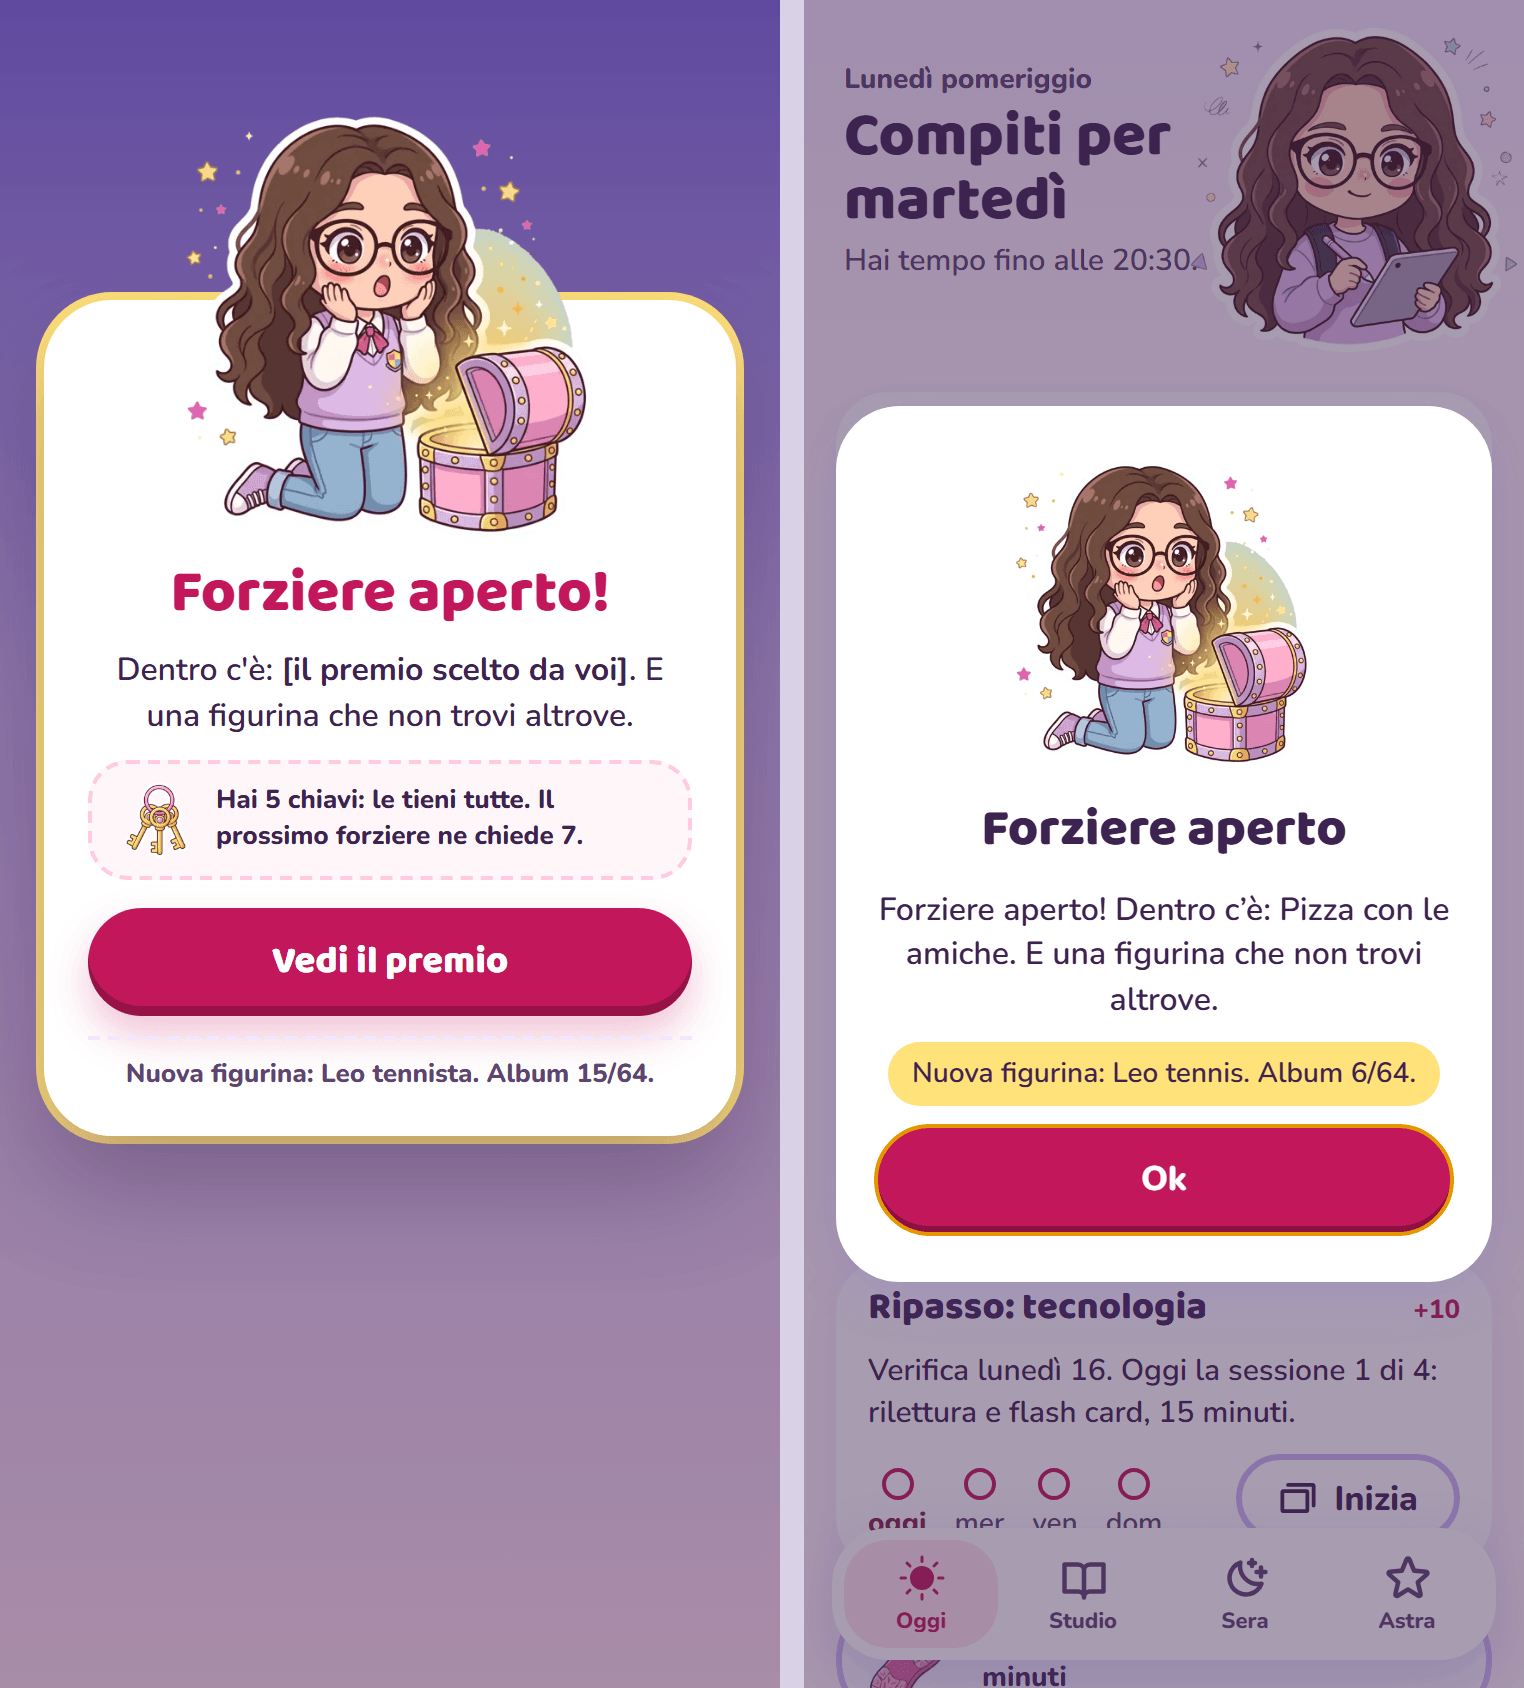
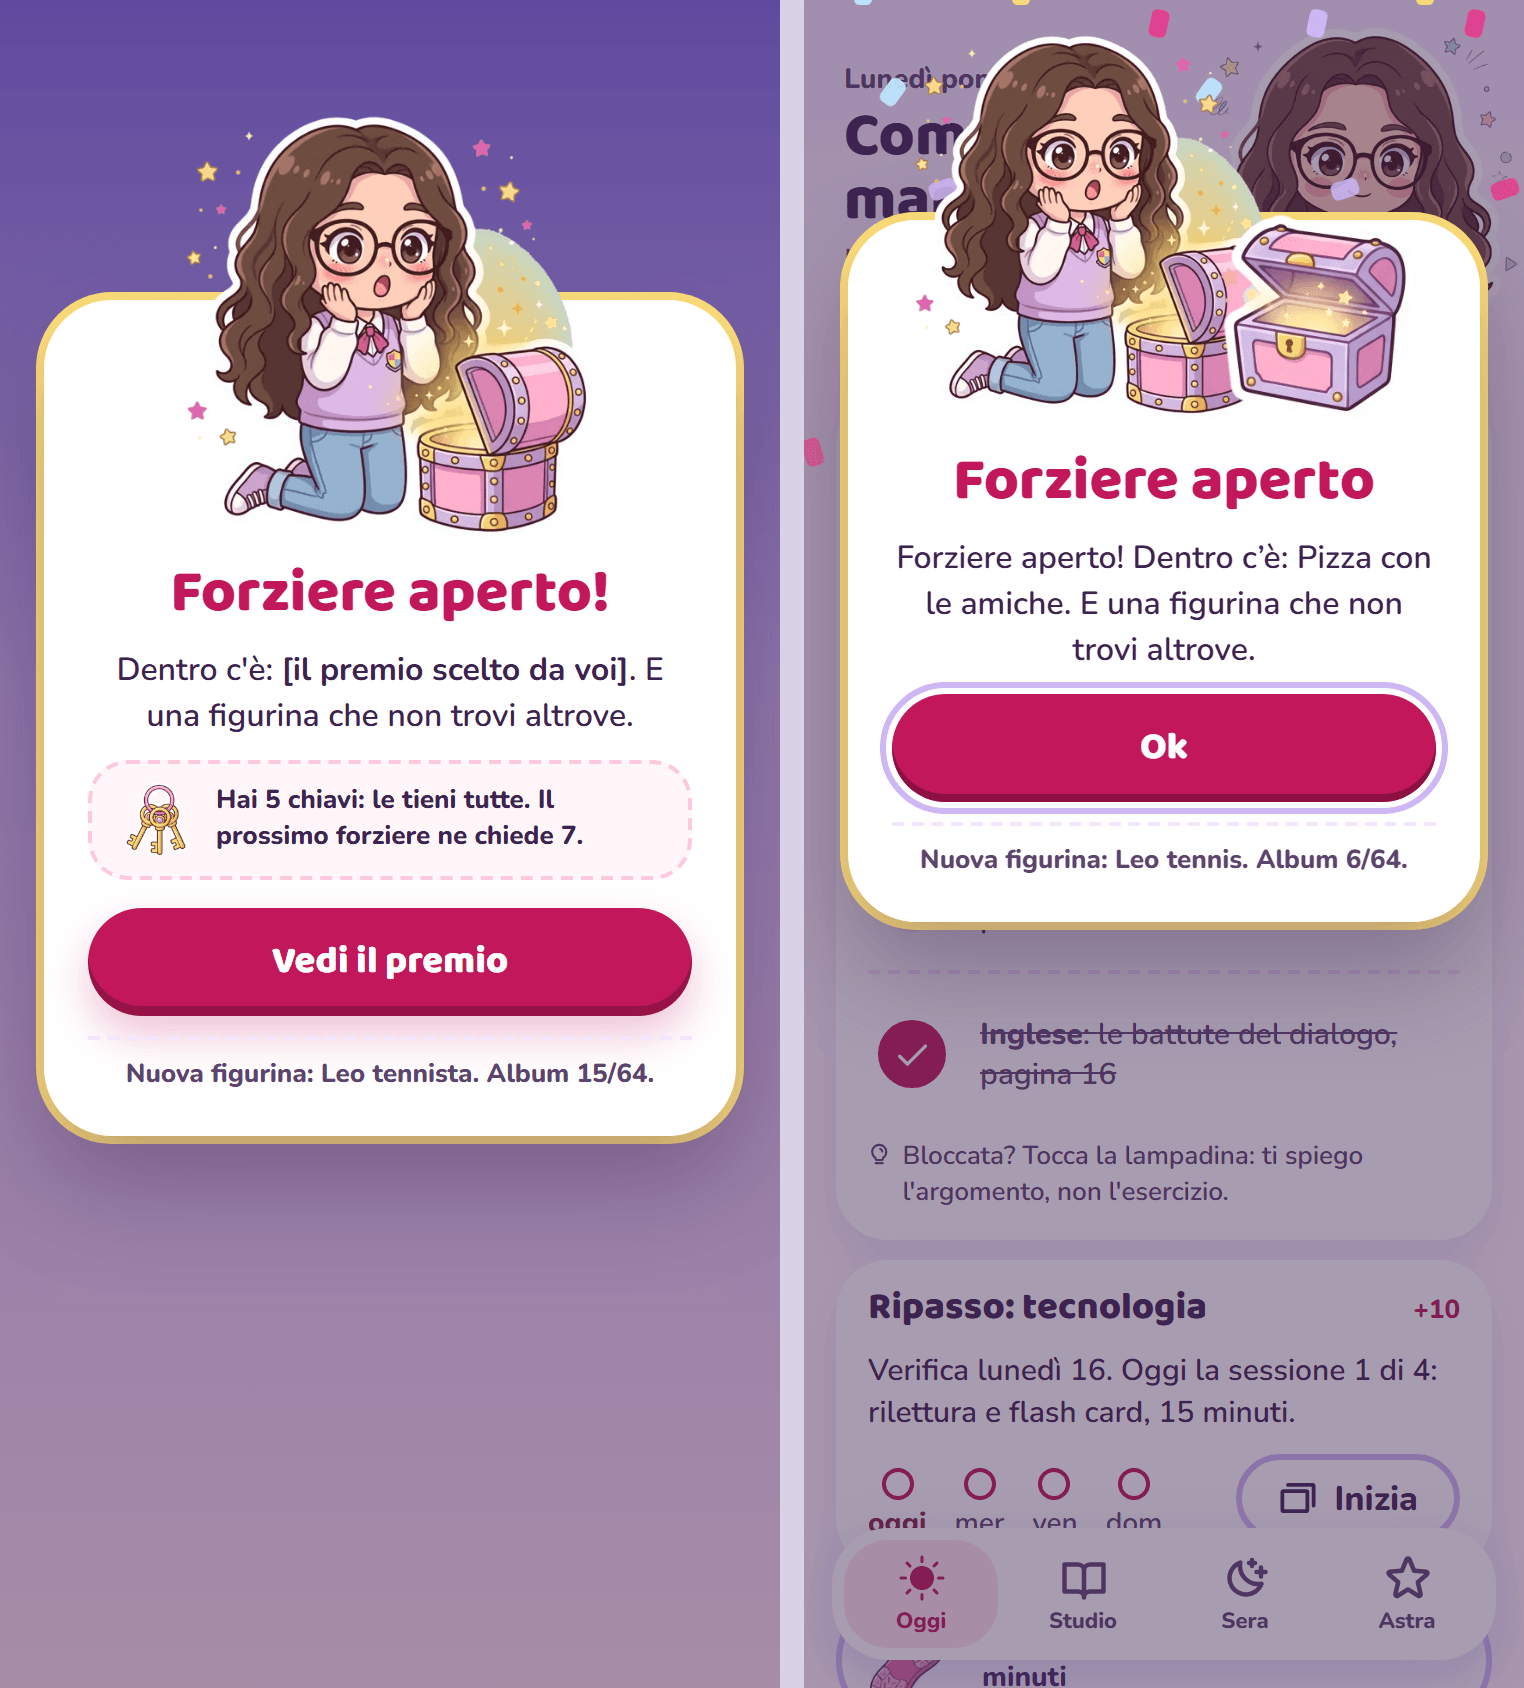
Grafica 5: popup con lo stampo delle bozze
- anello colorato per tono (oro festa ed enigma, lilla lucchetto, rosa
  bastone), avatar che sborda in alto, titolo Baloo grande (fucsia nelle
  feste), pulsante principale (prugna nel bastone), riga della figurina
  tratteggiata, bollino con i passi tolti nel bastone
- lucchetto con l'oggetto e la frase dei passi e delle chiavi; forziere
  aperto con il forziere accanto a Lani
- entrata leggera e coriandoli solo per forziere e cima, spenti con
  prefers-reduced-motion
- confronti anche per lucchetto, bastone ed enigma

diff --git a/src/Popup.tsx b/src/Popup.tsx
@@ -8,10 +8,22 @@ import { supabase } from './supabase';
 // Un popup per apertura dell'app (docs/05): il più importante in coda (bastone, voto, forziere e
 // tappa, altro), poi il più vecchio. Dopo le 21 i rimproveri di mamma e papà aspettano il mattino.
 // I popup più vecchi di 3 giorni non si mostrano più.
+// Aspetto: lo stampo delle bozze Popup-forziere, -lucchetto, -bastone, -enigma (anello colorato,
+// avatar che sborda, titolo grande, riga della figurina in fondo).
 
-type Popup = { id: string; priorita: number; posa: string; titolo: string; testo: string; figurina: string | null };
+type Popup = { id: string; priorita: number; situazione: string; posa: string; titolo: string; testo: string; figurina: string | null };
 const GIORNI_VALIDO = 3;
 const immagine = (posa: string) => manifest.avatar.find((a) => a.id === posa)?.webp ?? manifest.oggetti.find((o) => o.id === posa)?.webp;
+
+/** Tono del popup: decide l'anello, il colore del titolo e del pulsante. */
+function tono(p: Popup): 'festa' | 'lucchetto' | 'bastone' | 'enigma' | 'calmo' {
+  if (p.priorita === 1) return 'bastone';
+  if (p.situazione === 'forziere_lucchetto') return 'lucchetto';
+  if (p.situazione === 'enigma_comparso') return 'enigma';
+  if (['forziere_aperto', 'cima', 'tappa', 'chiavi_3', 'voto_9', 'voto_recupero', 'voto_migliorato', 'nota_merito'].includes(p.situazione)) return 'festa';
+  return 'calmo';
+}
+const CON_CORIANDOLI = ['forziere_aperto', 'cima'];
 
 export default function CodaPopup() {
   const [p, setP] = useState<Popup>();
@@ -21,7 +33,7 @@ export default function CodaPopup() {
       const da = new Date(Date.now() - GIORNI_VALIDO * 864e5).toISOString();
       const { data } = await supabase
         .from('popup_coda')
-        .select('id, priorita, posa, titolo, testo, figurina')
+        .select('id, priorita, situazione, posa, titolo, testo, figurina')
         .is('mostrato_il', null)
         .gte('creato_il', da)
         .order('priorita')
@@ -41,19 +53,39 @@ export default function CodaPopup() {
     supabase.from('popup_coda').update({ mostrato_il: adesso() }).eq('id', p.id).then();
     setP(undefined);
   };
+  const t = tono(p);
   const src = immagine(p.posa);
+  const malus = t === 'bastone' ? p.testo.match(/[−-]\d+/)?.[0] : undefined;
 
   return (
     <div className="velo" role="dialog" aria-modal="true" aria-labelledby="popup-titolo">
-      <div className="popup">
-        {src && <img src={`/${src}`} alt="" width={160} height={160} />}
+      {CON_CORIANDOLI.includes(p.situazione) && <Coriandoli />}
+      <div className={`popup popup-${t}`}>
+        <div className="popup-avatar" aria-hidden>
+          {p.situazione === 'forziere_lucchetto' && <img src="/assets/oggetti/lucchetto.webp" alt="" width={110} height={110} />}
+          {src && <img src={`/${src}`} alt="" width={t === 'lucchetto' ? 120 : 200} height={t === 'lucchetto' ? 120 : 200} />}
+          {p.situazione === 'forziere_aperto' && <img className="popup-oggetto" src="/assets/oggetti/forziere-aperto.webp" alt="" width={110} height={110} />}
+        </div>
+        {malus && <span className="bollino-malus">{malus}</span>}
         <h2 id="popup-titolo">{p.titolo}</h2>
         <p>{p.testo}</p>
-        {p.figurina && <p className="riga-figurina">{p.figurina}</p>}
+        {t === 'lucchetto' && <p className="popup-riquadro">I passi ti fanno camminare, le chiavi aprono i forzieri.</p>}
         <button className="principale largo" onClick={chiudi} autoFocus>
           Ok
         </button>
+        {p.figurina && <p className="riga-figurina">{p.figurina}</p>}
       </div>
+    </div>
+  );
+}
+
+/** Coriandoli leggeri, solo per forziere e cima; spenti con prefers-reduced-motion (CSS). */
+function Coriandoli() {
+  return (
+    <div className="coriandoli" aria-hidden>
+      {Array.from({ length: 18 }, (_, i) => (
+        <span key={i} style={{ left: `${(i * 37) % 100}%`, animationDelay: `${(i % 6) * 0.15}s`, background: ['#E23D8E', '#FFE27A', '#CDB8F5', '#BFE6FF'][i % 4] }} />
+      ))}
     </div>
   );
 }

diff --git a/src/stile.css b/src/stile.css
@@ -436,3 +436,31 @@ body[data-sfondo='viola'] { background: linear-gradient(180deg, #7b6ae0 0, var(-
 .tappe .bandiera.sopra { top: -116px; }
 .tappe .bandiera.sopra-2 { top: -170px; }
 .tappe .traguardo.sopra { top: -120px; }
+
+/* Popup (bozze Popup-*): anello colorato, avatar che sborda, entrata leggera */
+.velo { background: rgba(61, 35, 80, 0.45); padding: 110px 22px 22px; overflow-y: auto; align-items: start; }
+.popup { position: relative; width: min(100%, 346px); margin: 0 auto; padding: 116px 22px 22px; gap: 10px; border-radius: 34px; box-shadow: 0 24px 50px rgba(61, 35, 80, 0.35), 0 0 0 4px var(--lilla-medio); }
+.popup-festa, .popup-enigma { box-shadow: 0 24px 50px rgba(61, 35, 80, 0.35), 0 0 0 4px var(--burro); }
+.popup-bastone { box-shadow: 0 24px 50px rgba(61, 35, 80, 0.35), 0 0 0 4px var(--rosa-bordo); }
+.popup-avatar { position: absolute; left: 50%; top: -96px; translate: -50% 0; display: flex; align-items: flex-end; justify-content: center; gap: 0; pointer-events: none; }
+.popup-avatar img { display: block; object-fit: contain; }
+.popup-oggetto { margin-left: -46px; }
+.popup h2 { font-size: 30px; line-height: 1.05; color: var(--testo); }
+.popup-festa h2 { color: var(--accento); }
+.popup p { font-size: 16px; line-height: 1.45; }
+.popup-riquadro { width: 100%; padding: 10px 14px; border-radius: 18px; background: var(--lilla); font: 800 13px/1.35 Nunito, sans-serif !important; }
+.popup .principale { font: 800 19px 'Baloo 2', Nunito, sans-serif; }
+.popup-bastone .principale { background: var(--testo); box-shadow: inset 0 -5px 0 rgba(0, 0, 0, 0.3); }
+.popup .riga-figurina { width: 100%; padding: 8px 0 0; border-radius: 0; background: none; border-top: 2px dashed var(--lilla); font: 800 13px Nunito, sans-serif !important; color: var(--testo-2); }
+.bollino-malus { position: absolute; right: 18px; top: 18px; width: 44px; height: 44px; border-radius: 50%; display: grid; place-items: center; background: var(--testo); color: #fff; font: 800 17px 'Baloo 2', Nunito, sans-serif; }
+@media (prefers-reduced-motion: no-preference) {
+  .popup { animation: entra 0.35s cubic-bezier(0.2, 0.9, 0.3, 1.2) both; }
+  @keyframes entra { from { opacity: 0; transform: translateY(24px) scale(0.94); } to { opacity: 1; transform: none; } }
+  .coriandoli span { animation: cade 1.6s ease-in both; }
+}
+.coriandoli { position: fixed; inset: 0; pointer-events: none; overflow: hidden; }
+.coriandoli span { position: absolute; top: -12px; width: 9px; height: 14px; border-radius: 3px; opacity: 0; }
+@keyframes cade { 0% { opacity: 1; transform: translateY(0) rotate(0); } 100% { opacity: 0; transform: translateY(90vh) rotate(540deg); } }
+@media (prefers-reduced-motion: reduce) { .coriandoli { display: none; } }
+.popup .principale:focus { outline: none; }
+.popup .principale:focus-visible { outline: 3px solid var(--lilla-medio); outline-offset: 3px; }

diff --git a/e2e/confronto.e2e.ts b/e2e/confronto.e2e.ts
@@ -78,6 +78,10 @@ function dati(): Tabelle {
   };
 }
 
+const popup = (situazione: string, priorita: number, posa: string, titolo: string, testo: string) => ({
+  id: situazione, priorita, situazione, posa, titolo, testo, figurina: null, mostrato_il: null, creato_il: '2026-11-09T15:00:00Z',
+});
+
 type Caso = { bozza: string; quando: Date; vai?: (p: Page) => Promise<void>; dati?: (d: Tabelle) => void; genitore?: boolean; prima?: boolean };
 const CASI: Record<string, Caso> = {
   Oggi: { bozza: 'Oggi', quando: LUNEDI_MATTINA },
@@ -123,9 +127,12 @@ const CASI: Record<string, Caso> = {
     quando: LUNEDI_POMERIGGIO,
     dati: (d) =>
       (d.popup_coda = [
-        { id: 'p1', priorita: 3, posa: 'lani-sorpresa', titolo: 'Forziere aperto', testo: 'Forziere aperto! Dentro c’è: Pizza con le amiche. E una figurina che non trovi altrove.', figurina: 'Nuova figurina: Leo tennis. Album 6/64.', mostrato_il: null, creato_il: '2026-11-09T15:00:00Z' },
+        { id: 'p1', priorita: 3, situazione: 'forziere_aperto', posa: 'lani-sorpresa', titolo: 'Forziere aperto', testo: 'Forziere aperto! Dentro c’è: Pizza con le amiche. E una figurina che non trovi altrove.', figurina: 'Nuova figurina: Leo tennis. Album 6/64.', mostrato_il: null, creato_il: '2026-11-09T15:00:00Z' },
       ]),
   },
+  'Popup-lucchetto': { bozza: 'Popup-lucchetto', quando: LUNEDI_POMERIGGIO, dati: (d) => (d.popup_coda = [popup('forziere_lucchetto', 3, 'papa-dispiaciuto', 'Servono chiavi', 'Sei arrivata al forziere, ma servono 2 chiavi in più. Si apre appena le hai.')]) },
+  'Popup-bastone': { bozza: 'Popup-bastone', quando: LUNEDI_POMERIGGIO, dati: (d) => (d.popup_coda = [popup('bagno_mamma', 1, 'mamma-arrabbiata', 'Bagno da sistemare', 'Bagno da sistemare: −1. Asciugamani appesi, tappetino a posto, specchio pulito.')]) },
+  'Popup-enigma': { bozza: 'Popup-enigma', quando: LUNEDI_POMERIGGIO, dati: (d) => (d.popup_coda = [popup('enigma_comparso', 3, 'lani-detective', 'Un biglietto', 'Un biglietto vicino al forziere. Riesci a decifrarlo? Hai 3 tentativi.')]) },
   Benvenuta: { bozza: 'Benvenuta', quando: LUNEDI_MATTINA, prima: true },
   Genitori: { bozza: 'Genitori', quando: LUNEDI_POMERIGGIO, genitore: true },
 };
